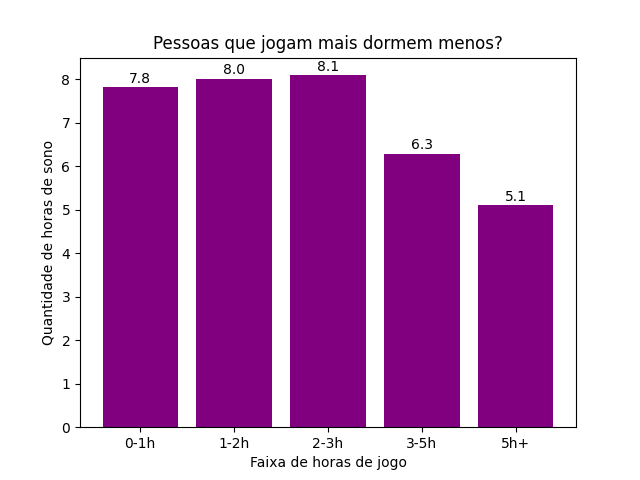
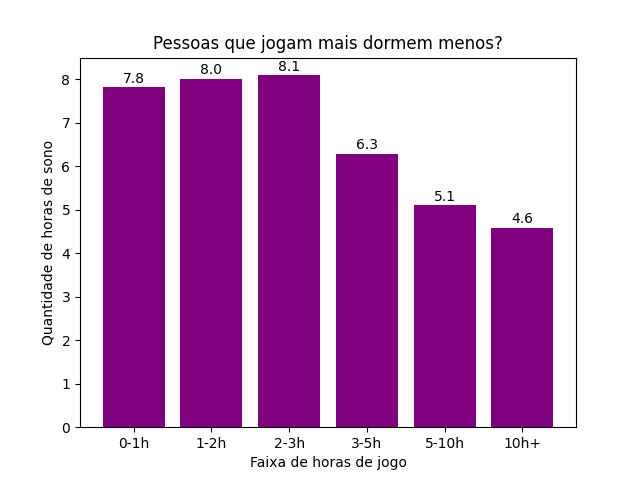
alteração nos gráficos parte II

diff --git a/analysis/analysis.py b/analysis/analysis.py
@@ -104,19 +104,21 @@ plt.show()
 
 # %%
 
-# 2. GAMING vs saúde mental
+# 2. GAMING vs estilo de vida
 
 ## 2.1 quem joga mais dorme menos?
 
 df['faixa_jogo'] = pd.cut(
     df['daily_gaming_hours'],
-    bins=[0, 1, 2, 3, 5, 10],
-    labels=['0-1h', '1-2h', '2-3h', '3-5h', '5h+']
+    bins=[0, 1, 2, 3, 5, 10, float('inf')],
+    labels=['0-1h', '1-2h', '2-3h', '3-5h', '5-10h', '10h+'],
+    include_lowest=True
 )
 
 sono_horas_jogadas = df.groupby('faixa_jogo', as_index=False)['sleep_hours'].mean()
 
 sono_horas_jogadas.head()
+
 # %%
 
 ## plotar o gráfico horas jogadas x sono
@@ -163,6 +165,46 @@ plt.xlabel("Qualidade do sono")
 plt.ylabel("Horas de jogo")
 
 plt.savefig("../img/qualidade_sono.png")
+
+plt.show()
+
+# %%
+
+## 2.3 Pessoas com mais tempo offline são mais felizes?
+
+## Transformando o humor em uma escala de felicidade
+
+df['happiness_score'] = df['mood_state'].map({
+    "Depressed": 'Baixo',
+    "Withdrawn": 'Baixo',
+    "Anxious": 'Baixo',
+    "Irritable": 'Baixo',
+    "Angry": "Baixo",
+    "Restless": 'Médio',
+    "Normal": 'Médio',
+    "Excited": 'Alto',
+    "Euphoric": 'Alto'
+})
+
+#%%
+
+tempo_off = df.groupby('happiness_score', as_index=False)['face_to_face_social_hours_weekly'].mean()
+tempo_off.head()
+
+# %%
+
+tempo_off = df.groupby('happiness_score')['face_to_face_social_hours_weekly'].mean()
+
+plt.bar(tempo_off.index, tempo_off.values, color='orange')
+
+plt.xlabel('Nível de felicidade')
+plt.ylabel('Tempo offline (média)')
+plt.title('Mais tempo offline está associado à felicidade?')
+
+for i, value in enumerate(tempo_off.values):
+    plt.text(i, value + 0.1, f'{value:.1f}', ha='center')
+
+plt.savefig("../img/tempo_off_felicidade.png")
 
 plt.show()
 
